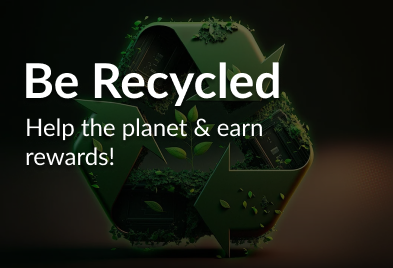
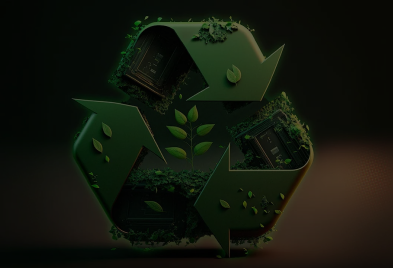
up in home
up in home

Changed region(s): [[0.0611, 0.209, 0.7328, 0.4179], [0.0611, 0.4478, 0.6718, 0.5373], [0.0611, 0.5373, 0.3053, 0.6269]]

diff --git a/green_oil/lib/home_screen/home_screen.dart b/green_oil/lib/home_screen/home_screen.dart
@@ -21,9 +21,37 @@ class HomeScreen extends StatelessWidget {
               child: Stack(
                 children: [
                   Image.asset(
-                    'assets/images/home_img.png',
-                    width: double.infinity,
+                    'assets/images/home_img.png', // Placeholder for the background image
                     fit: BoxFit.cover,
+                    width: double.infinity,
+                  ),
+                  const Positioned(
+                    top: 60,
+                    left: 16,
+                    right: 16,
+                    child: Column(
+                      crossAxisAlignment: CrossAxisAlignment.start,
+                      children: [
+                        Text(
+                          'Be Recycled',
+                          style: TextStyle(
+                            color: Colors.white,
+                            fontSize: 48,
+                            fontWeight: FontWeight.bold,
+                          ),
+                          textAlign: TextAlign.center,
+                        ),
+                        SizedBox(height: 8),
+                        Text(
+                          'Help the planet & earn rewards!',
+                          style: TextStyle(
+                            color: Colors.white,
+                            fontSize: 24,
+                          ),
+                          textAlign: TextAlign.center,
+                        ),
+                      ],
+                    ),
                   ),
                   Positioned(
                     bottom: -1,
